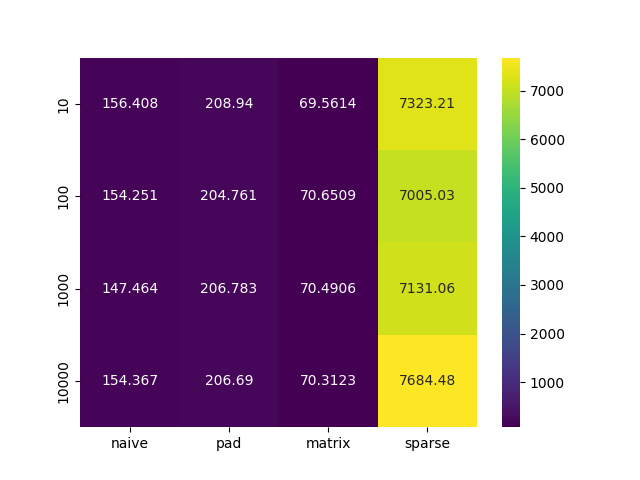
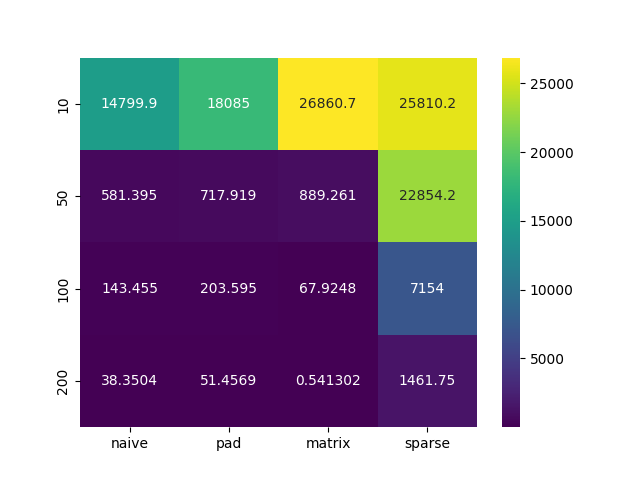
update

diff --git a/projects/gol/python.py b/projects/gol/python.py
@@ -188,17 +188,17 @@ if __name__ == '__main__':
     print(args)
     if args.b:
         data = []
-        Ns = [10, 100, 1000, 10000]
+        Ns = [10, 50, 100, 200]
         for n in Ns:
             print(f"Running benchmark for {n}x{n}")
             print("Naive")
-            _, elapsed1 = gol_naive(args.n, args.n, args.its, False, args.seed)
+            _, elapsed1 = gol_naive(n, n, args.its, False, args.seed)
             print("Padded")
-            _, elapsed2 = gol_pad(args.n, args.n, args.its, False, args.seed)
+            _, elapsed2 = gol_pad(n, n, args.its, False, args.seed)
             print("Matrix")
-            _, elapsed3 = gol_matrix(args.n, args.n, args.its, False, args.seed, False)
+            _, elapsed3 = gol_matrix(n, n, args.its, False, args.seed, False)
             print("Sparse")
-            _, elapsed4 = gol_matrix(args.n, args.n, args.its, False, args.seed, True)
+            _, elapsed4 = gol_matrix(n, n, args.its, False, args.seed, True)
             data.append([args.its / elapsed1, args.its / elapsed2, args.its / elapsed3, args.its / elapsed4])
         df = pd.DataFrame(data, columns=['naive', 'pad', 'matrix', 'sparse'], index=Ns)
         df.to_csv('benchmark.csv')
@@ -216,6 +216,6 @@ if __name__ == '__main__':
     frames, elapsed = gol(args.n, args.n, args.its, args.prog, args.seed, args.s)
     print(f"Elapsed time: {elapsed:0.4f} seconds")
     if args.v:
-        if args.m:
+        if args.m or args.s:
             frames = [f.reshape(args.n, args.n) for f in frames]
         video(frames, args.o, args.fps, args.res)
